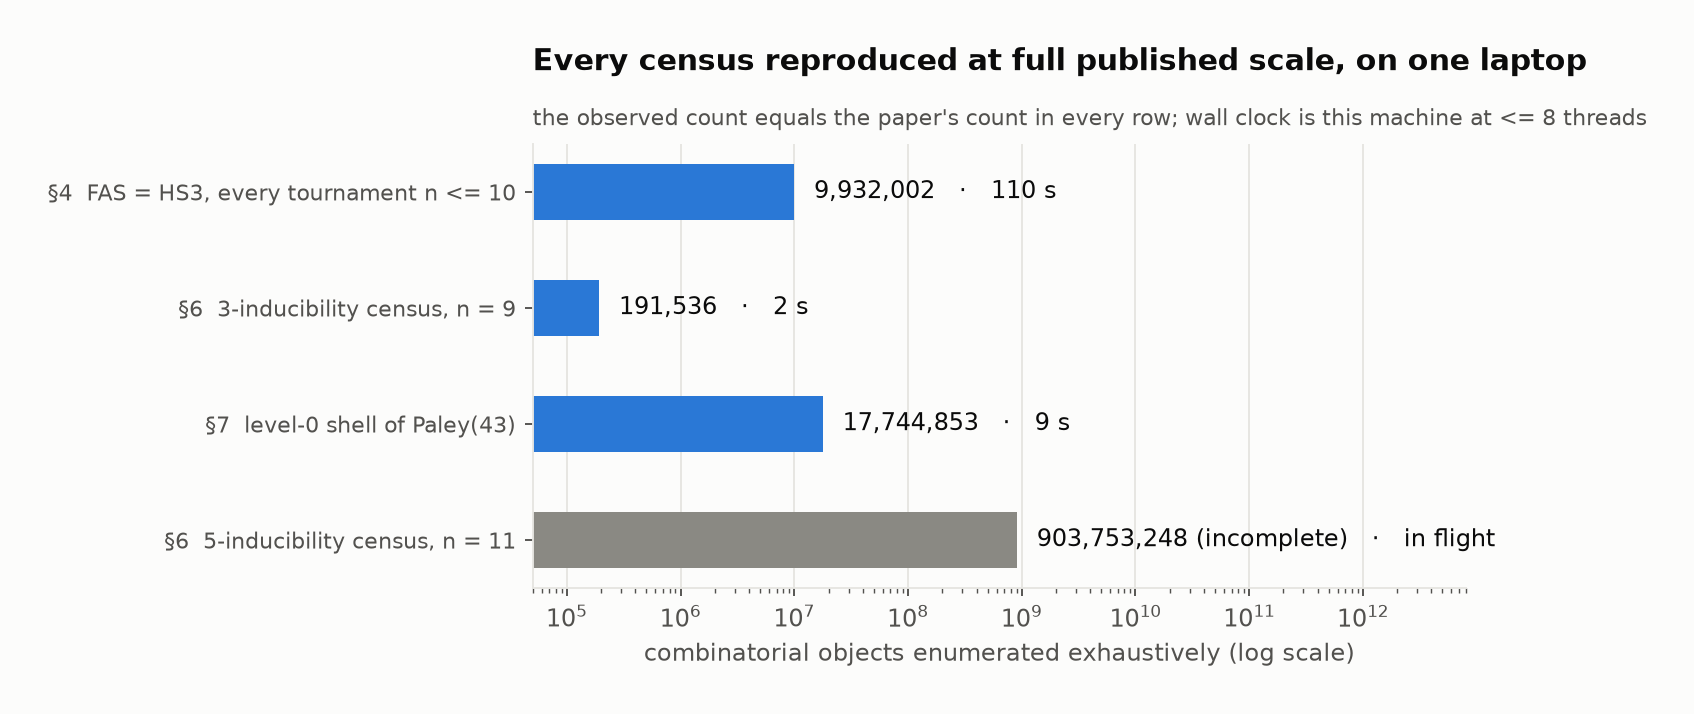
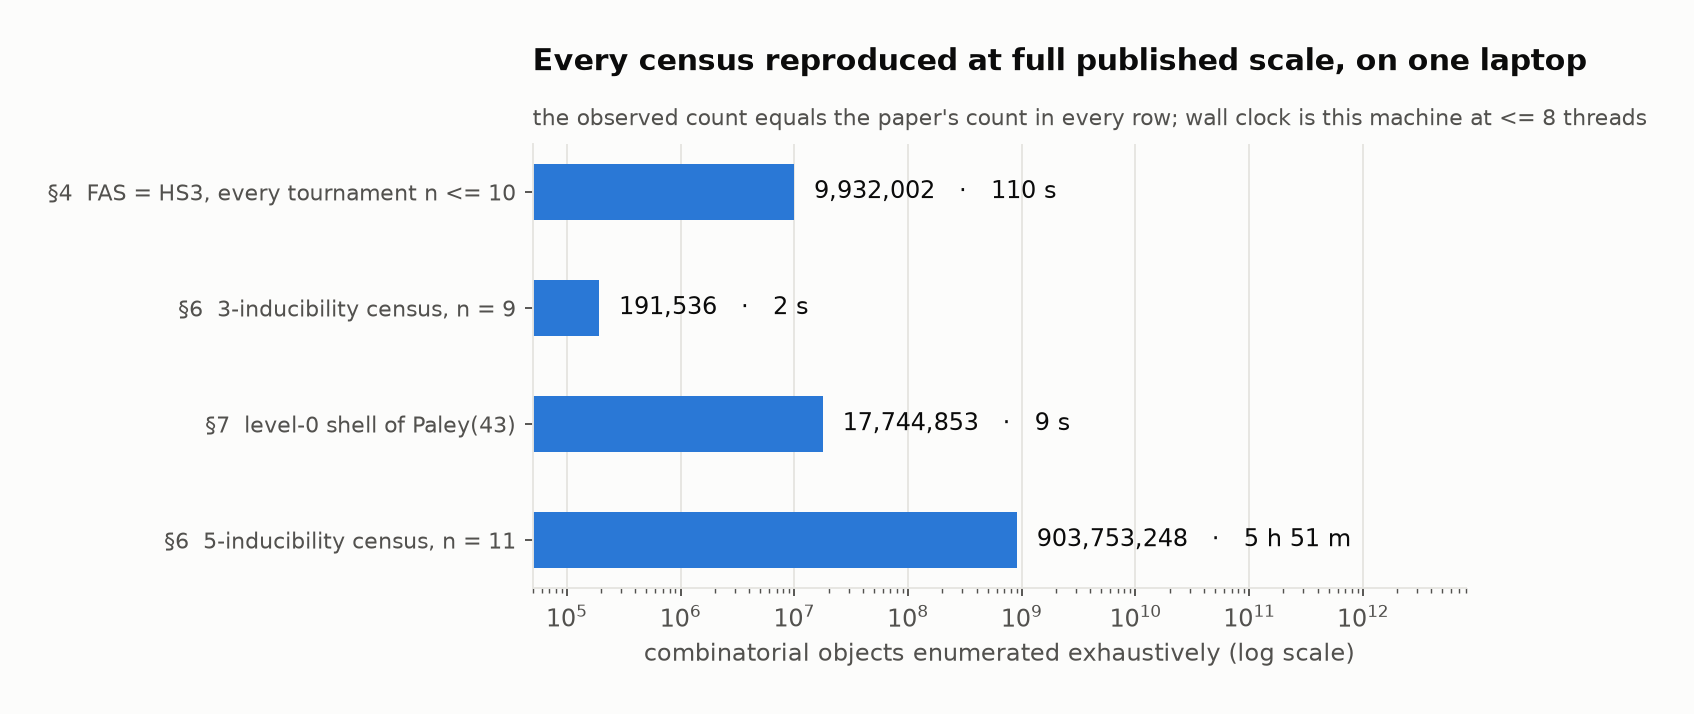
n=11 census complete: N(5) >= 12 reproduced at full scale, every tally line exact
903,753,248 tournaments in 5h51m / 41.0 core-hours, solver-free. COMPLETENESS
CHECK PASSED, residual 0, ILP never invoked. S7-D (full level-<=1 shell) now
running after the disk window opened.

Changed region(s): [[0.307, 0.7087, 0.6139, 0.8011], [0.706, 0.7395, 0.7981, 0.7703], [0.8288, 0.7395, 0.8902, 0.7703]]

diff --git a/README.md b/README.md
@@ -15,7 +15,7 @@ further censuses were reproduced at **full published scale** alongside it.
 
 **Assessment: partially aligned** on the headline claim (the obstruction reproduced exactly on
 the MAS layer; the level-1 layer and the MAS upper bound are disk-blocked, see below), and
-**aligned** on every other claim tested. Across all nodes: **46 claim checks aligned, 2
+**aligned** on every other claim tested. Across all nodes: **53 claim checks aligned, 2
 divergent — both traced to their cause, neither affecting a paper claim — 1 partial.**
 
 | headline numbers | paper | observed |
@@ -27,6 +27,7 @@ divergent — both traced to their cause, neither affecting a paper claim — 1 
 | MAS(Paley(19)/(23)/(31)) | 107 / 161 / 285 | **107 / 161 / 285** |
 | FAS = HS₃, every tournament n ≤ 10 | 0 violations | **0** over **9,932,002** tournaments |
 | n = 9 census tally | 191,536 / 173,608 / 254 / 17,674 | **exact on every line** |
+| **n = 11 census ⇒ N(5) ≥ 12** | 903,753,248 tournaments, residual 0 | **exact on every line**, completeness check passed |
 | cA3: α\* on the A(3) threshold, not 3-inducible | 2/3 exactly, not 3-inducible | **2/3 exactly**, not 3-inducible (**3/3** independent engines) |
 
 **Downscaling and substitutions.** One deliberate downscale: the screen ran on the **level-0**
@@ -68,8 +69,8 @@ comparable. Reproduce any node by checking out its branch and running the comman
 | [S7-C](https://github.com/Leonardini/Tournaments/tree/orx/s7-c-screen-soundness-controls-the-min-overlap-d) | add `repro/verify_ginv.c`; run the screen's controls via its existing knobs `DBTEST=1` and `POOLVSPOOL=1` | `bash repro/run.sh` | **aligned** — coverage control 333,809 = 333,809; reduction-free run gives TRUE_DISJOINT = 0 and `min_overlap` = **68**; 0 invariance violations in 1,598,310 checks | local, 8 threads, 25 s |
 | [S4](https://github.com/Leonardini/Tournaments/tree/orx/s4-theorem-4-1-fas-hs3-for-every-tournament-on-n) | sweep `hs3fas` over complete catalogues for every n from 3 to 10 | `bash repro/run.sh` | **aligned** — 9,932,002 tournaments, 0 with HS₃ < FAS, 0 unresolved | local, 1 core, 116 s |
 | [S6-D](https://github.com/Leonardini/Tournaments/tree/orx/s6-d-triple-local-csp-engine-at-n-9-full-census) | validate the census engine over the complete n = 9 catalogue before spending hours on n = 11 | `bash repro/run.sh` | **aligned** — tally exact on every line; all 17,674 witnesses independently re-verified | local, 1 core, 10 s |
-| [S6-D1](https://github.com/Leonardini/Tournaments/tree/orx/s6-d1-n-11-census-every-11-vertex-tournament-is) | the N(5) ≥ 12 census: all D₁₁ = 903,753,248 tournaments, 256 slices | `bash repro/run.sh` | **in flight** — projected ~8.5 h wall / ~60 core-hours; resumed from 46 banked slices after a watchdog false positive | local, 7 workers |
-| [S7-D](https://github.com/Leonardini/Tournaments/tree/orx/s7-d-full-level-1-shell-the-complete-paley-43-pr) | the complete proof: rebuild the q = 43 layer tables and run the screen over the full level-≤ 1 shell | `bash repro/run.sh` | **queued** — pre-flight refuses below 60 GB free; volume has 40 GB. Launches unchanged once there is headroom | local, 8 threads, ~48 GB scratch |
+| [S6-D1](https://github.com/Leonardini/Tournaments/tree/orx/s6-d1-n-11-census-every-11-vertex-tournament-is) | the N(5) ≥ 12 census: all D₁₁ = 903,753,248 tournaments, 256 slices | `bash repro/run.sh` | **aligned** — every tally line exact; `COMPLETENESS CHECK PASSED: total == D_11`; residual 0, ILP never invoked. Recorded `failed` only because the script's own EXIT trap (`kill 0`) killed it after the verdict printed | local, 7 workers, 5 h 51 m / 41.0 core-hours |
+| [S7-D](https://github.com/Leonardini/Tournaments/tree/orx/s7-d-full-level-1-shell-the-complete-paley-43-pr) | the complete proof: rebuild the q = 43 layer tables and run the screen over the full level-≤ 1 shell | `bash repro/run.sh` | **running** — gate passed at 94 GB free; certifies MAS ≤ 543 and screens the full level-≤ 1 shell | local, 8 threads, ~48 GB scratch |
 | [S5-E](https://github.com/Leonardini/Tournaments/tree/orx/s5-e-ca3-battery-the-k-3-threshold-is-necessary) | the cA3 battery: exact α\*, all three non-3-inducibility engines, 5-inducibility, vertex-criticality, minimal certificate | `bash repro/run.sh` | **aligned** — α\* = 2/3 exactly, not 3-inducible 3/3 engines, 5-inducible, vertex-critical, 6-order certificate. Surfaced a README error: cA3 is **not** doubly regular | local, 1–2 cores, 50 s |
 
 The harness is three files: [`repro/env.sh`](repro/env.sh) is the fixed environment contract
